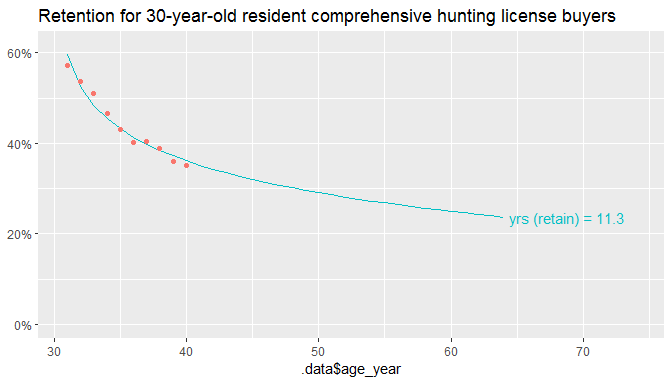
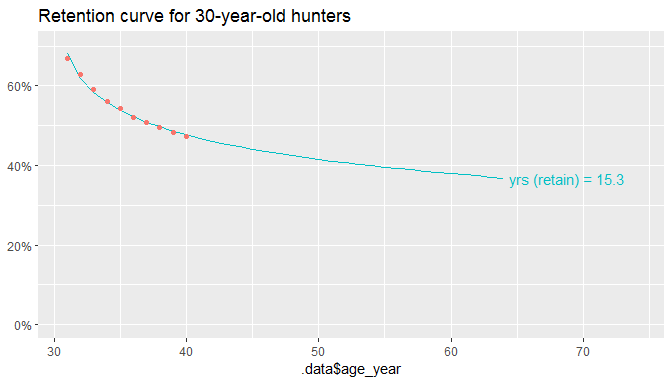
edits to retention vignette

diff --git a/github-vignettes/retention.md b/github-vignettes/retention.md
@@ -14,18 +14,17 @@ Retention curves can be constructed from observed retention rates, and these alw
 Data Standardization
 --------------------
 
-The functions in package lifetime expect that license data has been prepared in a way consistent with the structure described in [package salic](https://southwick-associates.github.io/salic/articles/salic.html). Sample data in the salic standard format is provided in this package:
+The functions in package lifetime expect that license data has been prepared in a way consistent with the structure described in [package salic](https://southwick-associates.github.io/salic/articles/salic.html). Sample data in the salic standard format is provided in this package, which is based on a 100,000 customer sample.
 
 ``` r
 library(tidyverse)
 library(lifetime)
-data(cust, lic, sale, hunt) # load lifetime sample data
+data(cust, lic, sale)
 ```
 
+Note that the "lic" table has an extra field (life\_group) for identifying license types of interest for lifetime pricing analysis.
+
 ``` r
-# standard license data for 100K customers
-# - the lic table has an extra field (life_group) identifying the license types of interest
-# - for the lifetime pricing analysis
 sale %>%
     left_join(lic, by = "lic_id") %>% 
     left_join(cust, by = "cust_id") %>%
@@ -35,8 +34,12 @@ sale %>%
 #>     <int>  <dbl> <int> <chr>         <int> <int>      <int>    <int>
 #> 1 1992994     64  2008 sportsman         1     1       1984        1
 #> 2 2410481     64  2008 sportsman         1     1       1946        1
+```
 
-# hunting permission history for those 100k customers
+There is also a license history table (hunting privilege) for these 100k customers.
+
+``` r
+data(hunt)
 head(hunt, 2)
 #> # A tibble: 2 x 4
 #>   cust_id  year   res age_year
@@ -127,49 +130,43 @@ retain <- yrs_calc_retain(hunt_split)
 
 p <- ggplot(retain, aes(years_since, pct)) + 
     geom_line() +
+    geom_point() +
     ggtitle("Retention for hunters aged 25 to 35")
 p
 ```
 
-![](retention_files/figure-markdown_github/unnamed-chunk-8-1.png)
+![](retention_files/figure-markdown_github/unnamed-chunk-9-1.png)
 
-The plot below demonstrates the use of multiple year zeroes with the `yrs_calc_retain()` grouping option. By default, the function will average across all available year zeroes.
+The plot below demonstrates the use of multiple year zeroes with the `yrs_calc_retain()` grouping option. By default, the function will average across all available year zeroes (like the plot above).
 
 ``` r
 retain_all <- yrs_calc_retain(hunt_split, year0)
-p + geom_point(data = retain_all)
+p + geom_point(data = retain_all, aes(color = year0))
 ```
 
-![](retention_files/figure-markdown_github/unnamed-chunk-9-1.png)
+![](retention_files/figure-markdown_github/unnamed-chunk-10-1.png)
 
 Regression Modelling
 --------------------
 
-With license data, we are faced with a limited amount of time (e.g., 10 years) for calculating retention. To extrapolate further we can use a simple regression model. A logarithmic relationship seems to provide a decent fit to the time trend.
+With license data, we are faced with a limited stretch of time (e.g., 10 years) for calculating retention. To extrapolate further we can use a simple regression model. A logarithmic relationship seems to provide a decent fit to the time trend.
 
 ``` r
 model_fit <- lm(pct ~ log(years_since), data = retain)
-model_fit
-#> 
-#> Call:
-#> lm(formula = pct ~ log(years_since), data = retain)
-#> 
-#> Coefficients:
-#>      (Intercept)  log(years_since)  
-#>          0.68169          -0.08888
+retain_predict <- data.frame(years_since = 1:34)
+retain_predict$pct <- predict(model_fit, retain_predict)
+
+ggplot(retain_predict, aes(years_since, pct)) + 
+    geom_line() +
+    geom_point(data = retain)
 ```
 
-We can then predict for future years. This is also useful because the sum of retention rates is equal to total future years over a given timeframe (34 years in this example):
+![](retention_files/figure-markdown_github/unnamed-chunk-11-1.png)
+
+The total estimated years of hunting over this 34-year period is just the sum of the predicted retention rates:
 
 ``` r
-model_predict <- data.frame(years_since = 1:34)
-model_predict$pct <- predict(model_fit, model_predict)
-tail(model_predict, 3)
-#>    years_since       pct
-#> 32          32 0.3736553
-#> 33          33 0.3709204
-#> 34          34 0.3682671
-sum(model_predict$pct)
+sum(retain_predict$pct)
 #> [1] 15.30437
 ```
 
@@ -191,7 +188,7 @@ estimate_and_plot <- function(hunt_split) {
 estimate_and_plot(hunt_split) + ggtitle("Retention curve for 30-year-old hunters")
 ```
 
-![](retention_files/figure-markdown_github/unnamed-chunk-12-1.png)
+![](retention_files/figure-markdown_github/unnamed-chunk-13-1.png)
 
 We also might be interested in focusing further. For example on residents who buy the comprehensive license; we use `yrs_lifetime_join()` to flag customers who buy that license type and then exclude customers who don't with `yrs_zero_filter()`:
 
@@ -208,4 +205,4 @@ estimate_and_plot(hunt_split) +
     ggtitle("Retention for 30-year-old resident comprehensive hunting license buyers")
 ```
 
-![](retention_files/figure-markdown_github/unnamed-chunk-13-1.png)
+![](retention_files/figure-markdown_github/unnamed-chunk-14-1.png)
